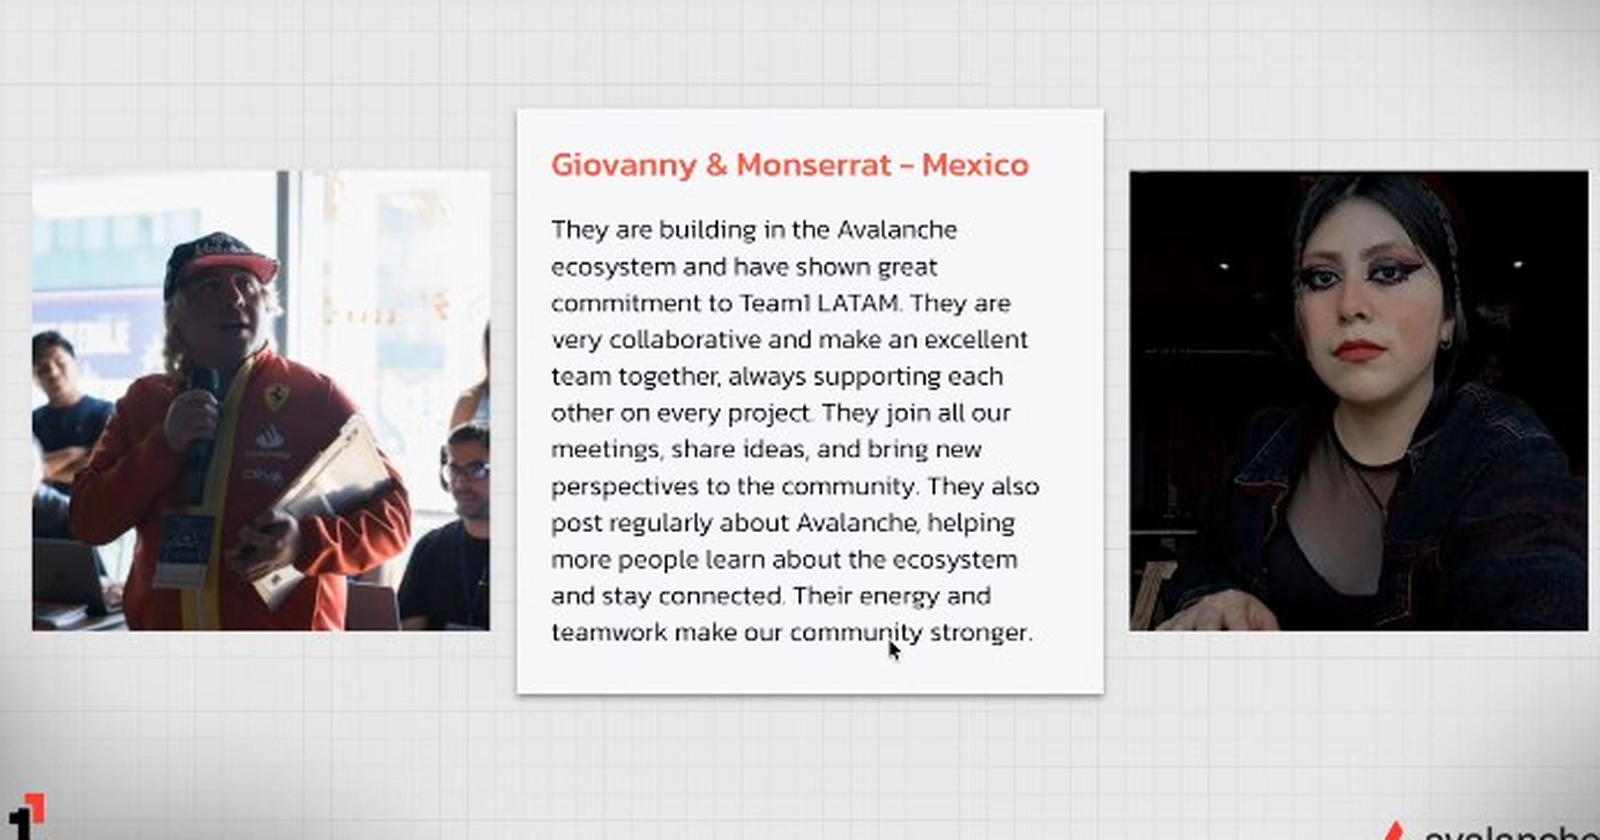
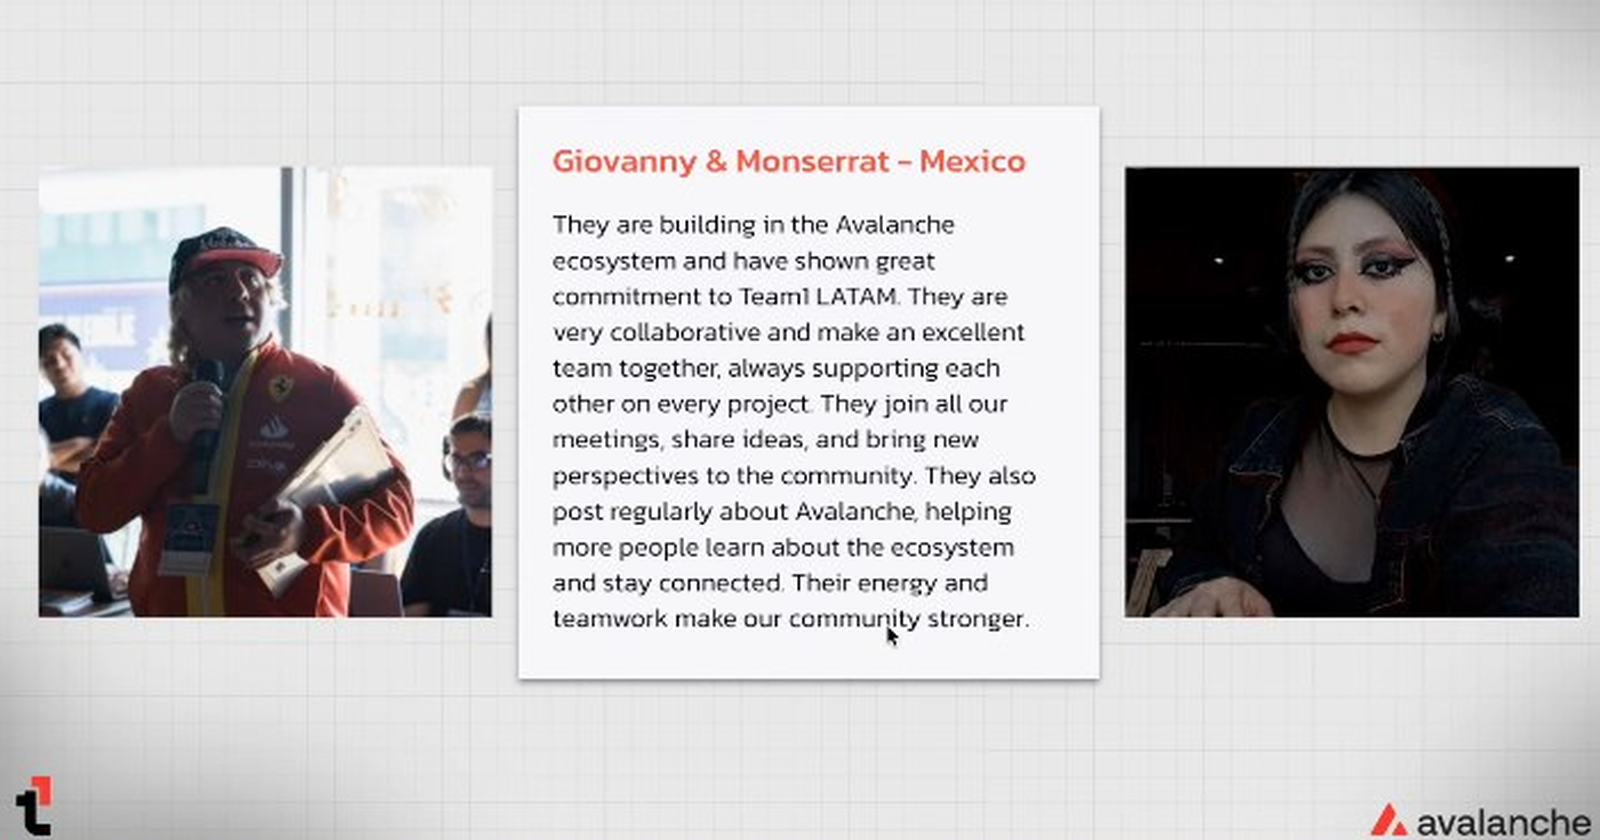
docs(blog): add try-it links, real screenshots, and fix the og crop
New "Try it yourself" section with real screenshots (captured live
via the run-web driver against kumply.xyz, not mocked): the live
demo, and the 0xgasless pilot card from /ecosystem, linking to
/demo, /solutions, /developers and /ecosystem.

New "Avalanche City" section: a fan-made Avalanche arcade from the
same Team1 LatAm community, explicitly unaffiliated with KUMPLY and
with Ava Labs/the Avalanche Foundation, with a real screenshot of
AvaxRacing (verified actually playable, not a mockup) and links to
the homepage and /play.

Also fixes team1-global-weekly-recognition-og.png: the previous crop
clipped the bottom of both the Team1 "t1" logo and the Avalanche
wordmark in the source slide; re-cropped with a wider box so both
render in full.

diff --git a/apps/web/src/content/blog.ts b/apps/web/src/content/blog.ts
@@ -1696,7 +1696,7 @@ const puedeOperar = await client.isAgent(address);</code></pre>
       name: "Monserrat Mendoza",
       role: { en: "Co-founder, Dev Lead", es: "Co-founder, Líder de Desarrollo" },
     },
-    readMinutes: 5,
+    readMinutes: 7,
     category: "COMMUNITY",
     title: {
       en: "Named on Team1's Global Weekly Call",
@@ -1739,6 +1739,31 @@ const puedeOperar = await client.isAgent(address);</code></pre>
 
 <p>It's also a different kind of post than everything else on this blog so far: no contract, no SDK release, no workshop, no pilot. We're writing it up anyway because it's real, it happened in front of us, and because "Team1 Collaborator" status on its own undersells what this specific moment was: two names read out loud on a global call, not just a status field.</p>
 
+<h2>Try it yourself</h2>
+
+<p>Since this post is already recapping what we've built, here's where to actually poke at it. The <a href="https://kumply.xyz/demo" target="_blank" rel="noopener noreferrer">live demo</a> runs a real compliance check against Fuji or Mainnet, no wallet required - pick a use case (DeFi access, a tokenized RWA fund, an AI agent marketplace) and watch <code>ComplianceGate</code> accept or reject a seeded address in real time. The <a href="https://kumply.xyz/solutions" target="_blank" rel="noopener noreferrer">use cases page</a> breaks down KYC, KYB, KYA, and cross-chain verification one at a time, and the <a href="https://kumply.xyz/developers" target="_blank" rel="noopener noreferrer">SDK docs</a> have the actual TypeScript to integrate it.</p>
+
+<figure class="blog-photo">
+<img src="/images/blog/kumply-demo-live.png" alt="KUMPLY's live demo page at kumply.xyz/demo, showing the use case selector for DeFi Protocol Access, RWA Tokenized Asset, and AI Agent Marketplace" width="1280" height="920" loading="lazy" />
+<figcaption>KUMPLY's live demo - <a href="https://kumply.xyz/demo" target="_blank" rel="noopener noreferrer">kumply.xyz/demo</a>.</figcaption>
+</figure>
+
+<p>The 0xgasless integration mentioned above is also real and inspectable, not just a claim: the <a href="https://kumply.xyz/ecosystem" target="_blank" rel="noopener noreferrer">Ecosystem page</a> lists the exact mechanism (their sponsorship service calls <code>verify()</code> before approving gas for a UserOperation) plus the three on-chain transaction hashes behind it.</p>
+
+<figure class="blog-photo">
+<img src="/images/blog/kumply-0xgasless-integration.png" alt="The 0xgasless pilot integration card on kumply.xyz/ecosystem, describing how their sponsorship service calls KUMPLY's verify() before approving gas" width="760" height="765" loading="lazy" />
+<figcaption>The 0xgasless pilot card - <a href="https://kumply.xyz/ecosystem" target="_blank" rel="noopener noreferrer">kumply.xyz/ecosystem</a>.</figcaption>
+</figure>
+
+<h2>While we're linking things: Avalanche City</h2>
+
+<p>Unrelated to KUMPLY, but worth a mention since it comes from the same community that just named us: <a href="https://www.avalanchecity.fun/" target="_blank" rel="noopener noreferrer">Avalanche City</a> is a fan-made arcade built on Avalanche by the Team1 LatAm community - not affiliated with or endorsed by Ava Labs or the Avalanche Foundation. Its first game, AvaxRacing, is actually playable today at <a href="https://www.avalanchecity.fun/play" target="_blank" rel="noopener noreferrer">avalanchecity.fun/play</a> - 14 tracks, a story mode, and lap times signed server-side and recorded on a LapRegistry contract on Fuji. A few more cabinets (an L1-building game, an ICM courier game, a validator-uptime game) are listed as in design, not live yet.</p>
+
+<figure class="blog-photo">
+<img src="/images/blog/avalanchecity-play.png" alt="AvaxRacing, the playable racing game inside Avalanche City, showing the garage screen with the Sakura GT car and a track list" width="1280" height="900" loading="lazy" />
+<figcaption>AvaxRacing, live at <a href="https://www.avalanchecity.fun/play" target="_blank" rel="noopener noreferrer">avalanchecity.fun/play</a>.</figcaption>
+</figure>
+
 <h2>Source</h2>
 
 <p>Everything above comes from screenshots of the actual "Miembros Team1 LatAm" Discord channel taken at the time, not a secondhand account relayed by someone else. We're not linking the channel itself since it's a private community space, not a public one.</p>
@@ -1774,6 +1799,31 @@ const puedeOperar = await client.isAgent(address);</code></pre>
 <p>Vale la pena ser precisos sobre el alcance. Esto fue una llamada semanal global de Team1 - el mismo tipo de llamada recurrente a la que se une cada chapter de Team1, no un evento construido alrededor de nosotros ni un anuncio a nivel de todo Avalanche. Es una señal real de que dos personas construyendo de forma consistente en esta comunidad fueron notadas más allá de su propio chapter, ni más ni menos. No lo leemos como una alianza, una decisión de grant, ni ningún tipo de declaración oficial de la Avalanche Foundation - es reconocimiento de comunidad por parte de Team1, y lo tratamos exactamente así.</p>
 
 <p>También es un tipo de post distinto a todo lo demás que hemos publicado en este blog: sin contrato, sin release de SDK, sin workshop, sin piloto. Lo escribimos de todas formas porque es real, pasó frente a nosotros, y porque el estatus de "Team1 Collaborator" por sí solo se queda corto frente a lo que fue este momento específico: dos nombres leídos en voz alta en una llamada global, no solo un campo de estatus.</p>
+
+<h2>Pruébalo tú mismo</h2>
+
+<p>Ya que este post está haciendo recuento de lo que hemos construido, aquí es donde de verdad puedes tocarlo. El <a href="https://kumply.xyz/demo" target="_blank" rel="noopener noreferrer">demo en vivo</a> corre una revisión de compliance real contra Fuji o Mainnet, sin necesidad de wallet - elige un caso de uso (acceso a DeFi, un fondo RWA tokenizado, un marketplace de agentes IA) y mira a <code>ComplianceGate</code> aceptar o rechazar una dirección sembrada en tiempo real. La <a href="https://kumply.xyz/solutions" target="_blank" rel="noopener noreferrer">página de casos de uso</a> desglosa KYC, KYB, KYA y verificación cross-chain uno por uno, y los <a href="https://kumply.xyz/developers" target="_blank" rel="noopener noreferrer">docs del SDK</a> tienen el TypeScript real para integrarlo.</p>
+
+<figure class="blog-photo">
+<img src="/images/blog/kumply-demo-live.png" alt="El demo en vivo de KUMPLY en kumply.xyz/demo, mostrando el selector de casos de uso para DeFi Protocol Access, RWA Tokenized Asset y AI Agent Marketplace" width="1280" height="920" loading="lazy" />
+<figcaption>El demo en vivo de KUMPLY - <a href="https://kumply.xyz/demo" target="_blank" rel="noopener noreferrer">kumply.xyz/demo</a>.</figcaption>
+</figure>
+
+<p>La integración con 0xgasless mencionada arriba también es real e inspeccionable, no solo una afirmación: la <a href="https://kumply.xyz/ecosystem" target="_blank" rel="noopener noreferrer">página de Ecosystem</a> enumera el mecanismo exacto (su servicio de sponsorship llama a <code>verify()</code> antes de aprobar gas para una UserOperation) más los tres hashes de transacción on-chain detrás de eso.</p>
+
+<figure class="blog-photo">
+<img src="/images/blog/kumply-0xgasless-integration.png" alt="La tarjeta de integración piloto con 0xgasless en kumply.xyz/ecosystem, describiendo cómo su servicio de sponsorship llama a verify() de KUMPLY antes de aprobar gas" width="760" height="765" loading="lazy" />
+<figcaption>La tarjeta del piloto con 0xgasless - <a href="https://kumply.xyz/ecosystem" target="_blank" rel="noopener noreferrer">kumply.xyz/ecosystem</a>.</figcaption>
+</figure>
+
+<h2>Ya que estamos enlazando cosas: Avalanche City</h2>
+
+<p>Sin relación con KUMPLY, pero vale la pena mencionarlo porque viene de la misma comunidad que acaba de nombrarnos: <a href="https://www.avalanchecity.fun/" target="_blank" rel="noopener noreferrer">Avalanche City</a> es un arcade hecho por fans, construido sobre Avalanche por la comunidad de Team1 LatAm - no afiliado ni avalado por Ava Labs ni la Avalanche Foundation. Su primer juego, AvaxRacing, de verdad se puede jugar hoy en <a href="https://www.avalanchecity.fun/play" target="_blank" rel="noopener noreferrer">avalanchecity.fun/play</a> - 14 pistas, un modo historia, y tiempos de vuelta firmados del lado del servidor y registrados en un contrato LapRegistry en Fuji. Un par de cabinas más (un juego de construir tu propia L1, uno de mensajería ICM, uno de uptime de validadores) están listadas como en diseño, todavía no en vivo.</p>
+
+<figure class="blog-photo">
+<img src="/images/blog/avalanchecity-play.png" alt="AvaxRacing, el juego de carreras jugable dentro de Avalanche City, mostrando la pantalla de garage con el auto Sakura GT y una lista de pistas" width="1280" height="900" loading="lazy" />
+<figcaption>AvaxRacing, en vivo en <a href="https://www.avalanchecity.fun/play" target="_blank" rel="noopener noreferrer">avalanchecity.fun/play</a>.</figcaption>
+</figure>
 
 <h2>Fuente</h2>
 
